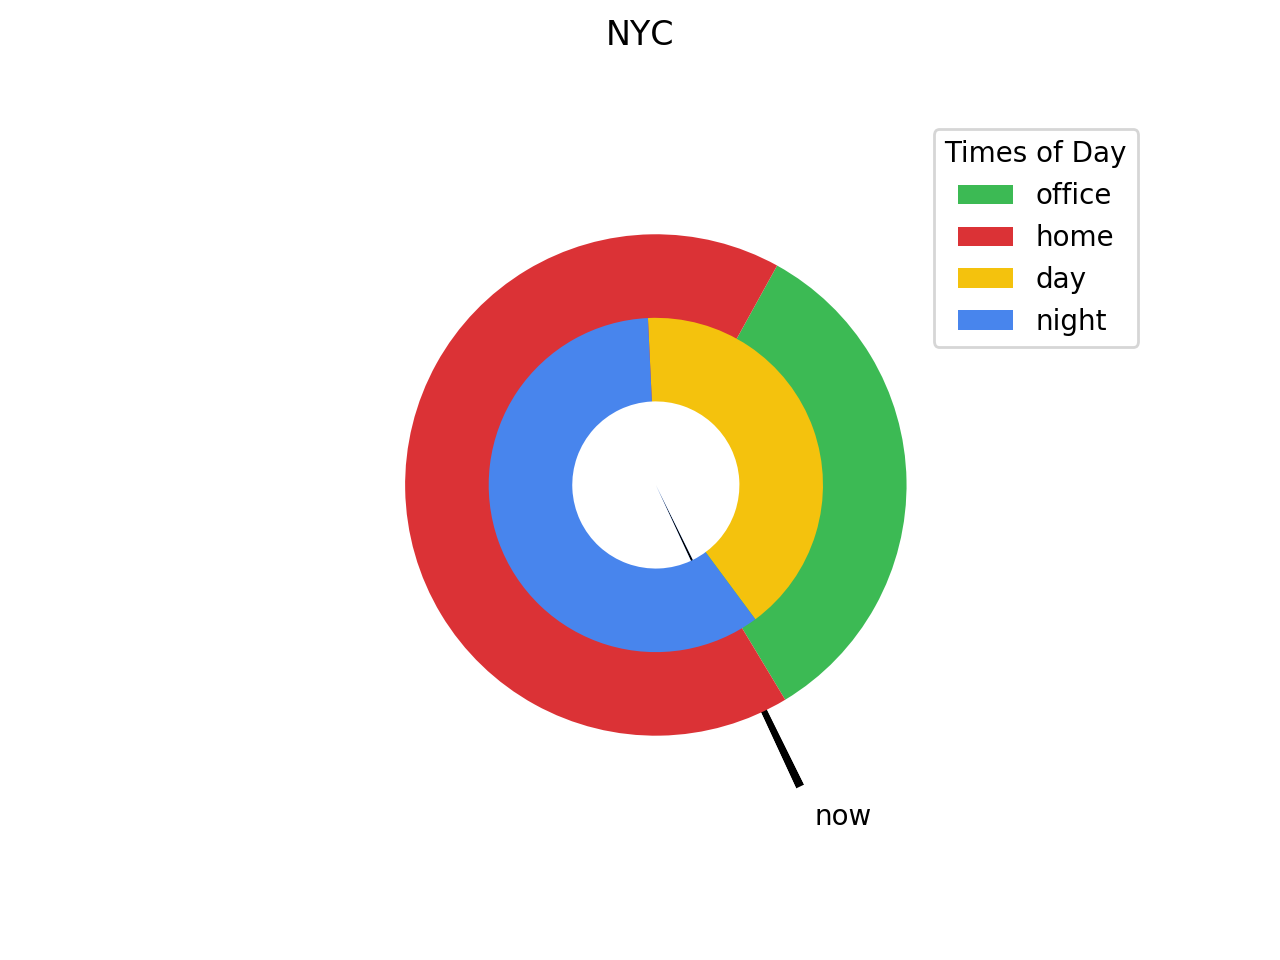
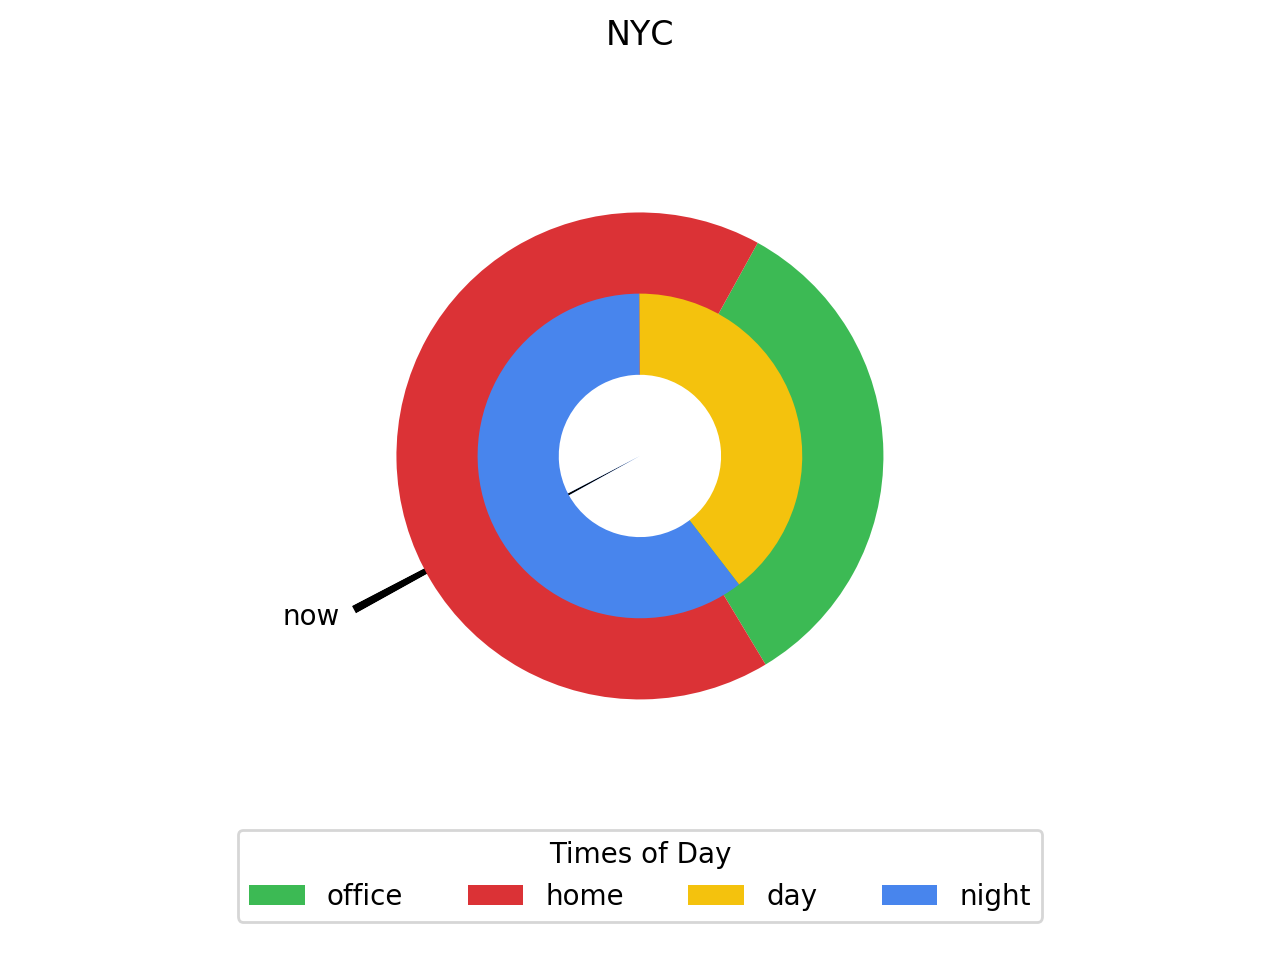
Updating figures with rearranged legends.

diff --git a/TimeZones.py b/TimeZones.py
@@ -153,10 +153,11 @@ def GridPlotting(cities):
     or city names (strings) to be looked up with CityFinder. Returns a plot
     of all the cities, must be square.
     """
-    # making sure it's a square number of cities.
+    # geocoding done in GoogleMaps if it's not a known test city.
     for i in range(0, len(cities)):
             if type(cities[i]) == str:
                 cities[i] = GoogleMaps(cities[i])
+    # making sure it's a square number of cities.
     if int(np.sqrt(len(cities))) == np.sqrt(len(cities)):
         dims = int(np.sqrt(len(cities)))
     else:
@@ -202,7 +203,7 @@ def GridPlotting(cities):
             plt.axis('equal')
             i += 1
 
-    # plt.suptitle('Cities Without Timezones')
+    plt.suptitle('Comparing Times Without Timezones')
     plt.subplots_adjust(left=.02, bottom=.15, right=.98, top=.88, wspace=0, hspace=.17)
     # plt.legend(c[0] + b[0] , labels + [work_labels[0]], loc = (-.35, .85), title = 'Time of Day')
     plt.legend(b[0] + c[0] , work_labels + labels, bbox_to_anchor = (-.6, -.4, 1.2, .5),
@@ -313,7 +314,7 @@ def Comparison(cities):
 
 Plotting(durham)
 # Plotting('philly')
-GridPlotting([durham, beijing, dubai, sydney])
+GridPlotting([nyc, beijing, dubai, sydney])
 # GridPlotting(['durham', 'beijing', 'dubai', 'sydney'])
 # OneRing(['durham', 'dubai'], 'daylight')
 # Comparison(['durham', 'london'])
